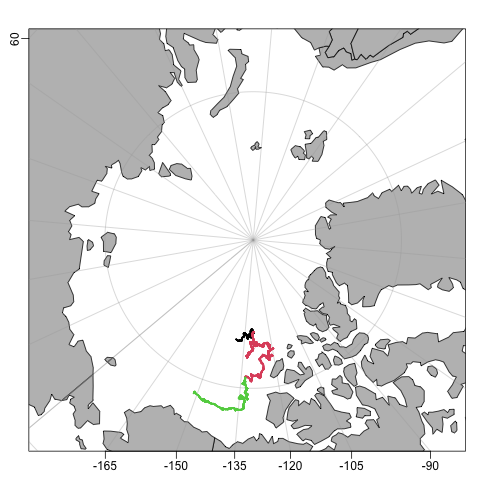
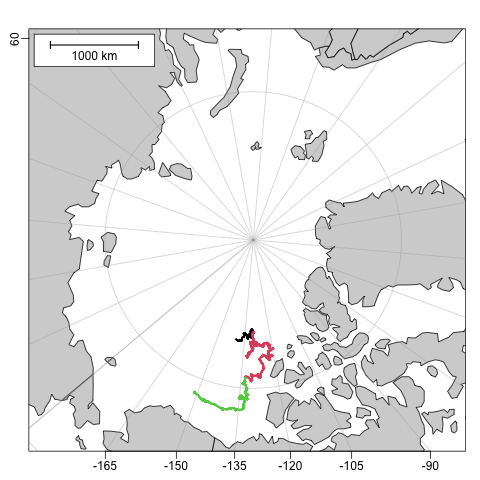
add scalebar to ITP figure

diff --git a/docs/reference/dod.ctd.itp.html b/docs/reference/dod.ctd.itp.html
@@ -174,7 +174,6 @@ resultant PNG created, on 2025-08-19.</p>
 <span><span class="va">nc</span> <span class="op">&lt;-</span> <span class="fu"><a href="../reference/dod.ctd.itp.html">dod.ctd.itp</a></span><span class="op">(</span>url <span class="op">=</span> <span class="va">url</span>, age <span class="op">=</span> <span class="fl">1</span><span class="op">)</span></span>
 <span><span class="va">d</span> <span class="op">&lt;-</span> <span class="fu">oce</span><span class="fu">::</span><span class="fu"><a href="https://dankelley.github.io/oce/reference/read.netcdf.html" class="external-link">read.netcdf</a></span><span class="op">(</span><span class="va">nc</span><span class="op">)</span></span>
 <span><span class="va">time</span> <span class="op">&lt;-</span> <span class="fu"><a href="https://rdrr.io/r/base/as.POSIXlt.html" class="external-link">as.POSIXct</a></span><span class="op">(</span><span class="st">"1970-01-01"</span><span class="op">)</span> <span class="op">+</span> <span class="fl">86400</span> <span class="op">*</span> <span class="va">d</span><span class="op">[[</span><span class="st">"profile_info/time"</span><span class="op">]</span><span class="op">]</span></span>
-<span><span class="va">col</span> <span class="op">&lt;-</span> <span class="fu"><a href="https://rdrr.io/r/base/cut.html" class="external-link">cut</a></span><span class="op">(</span><span class="va">time</span>, <span class="st">"year"</span><span class="op">)</span></span>
 <span><span class="va">lat</span> <span class="op">&lt;-</span> <span class="va">d</span><span class="op">[[</span><span class="st">"profile_info/latitude"</span><span class="op">]</span><span class="op">]</span></span>
 <span><span class="va">lon</span> <span class="op">&lt;-</span> <span class="va">d</span><span class="op">[[</span><span class="st">"profile_info/longitude"</span><span class="op">]</span><span class="op">]</span></span>
 <span><span class="fu"><a href="https://rdrr.io/r/grDevices/png.html" class="external-link">png</a></span><span class="op">(</span><span class="st">"itp.png"</span><span class="op">)</span></span>
@@ -185,7 +184,9 @@ resultant PNG created, on 2025-08-19.</p>
 <span>    projection <span class="op">=</span> <span class="st">"+proj=stere +lat_0=90 +lat_ts=90 +lon_0=-130"</span>,</span>
 <span>    col <span class="op">=</span> <span class="st">"lightgray"</span></span>
 <span><span class="op">)</span></span>
-<span><span class="fu"><a href="https://dankelley.github.io/oce/reference/mapPoints.html" class="external-link">mapPoints</a></span><span class="op">(</span><span class="va">lon</span>, <span class="va">lat</span>, cex <span class="op">=</span> <span class="fl">0.3</span>, pch <span class="op">=</span> <span class="fl">20</span>, col <span class="op">=</span> <span class="va">f</span><span class="op">)</span></span></code></pre><p></p></div>
+<span><span class="va">col</span> <span class="op">&lt;-</span> <span class="fu"><a href="https://rdrr.io/r/base/cut.html" class="external-link">cut</a></span><span class="op">(</span><span class="va">time</span>, <span class="st">"year"</span><span class="op">)</span></span>
+<span><span class="fu"><a href="https://dankelley.github.io/oce/reference/mapPoints.html" class="external-link">mapPoints</a></span><span class="op">(</span><span class="va">lon</span>, <span class="va">lat</span>, cex <span class="op">=</span> <span class="fl">0.3</span>, pch <span class="op">=</span> <span class="fl">20</span>, col <span class="op">=</span> <span class="va">col</span><span class="op">)</span></span>
+<span><span class="fu"><a href="https://dankelley.github.io/oce/reference/mapScalebar.html" class="external-link">mapScalebar</a></span><span class="op">(</span><span class="st">"topleft"</span>, length <span class="op">=</span> <span class="fl">1000</span><span class="op">)</span></span></code></pre><p></p></div>
 <p><img src="figures/itp.png" width="400" alt="Figure: itp.png"></p>
     </div>
     <div class="section level2">
